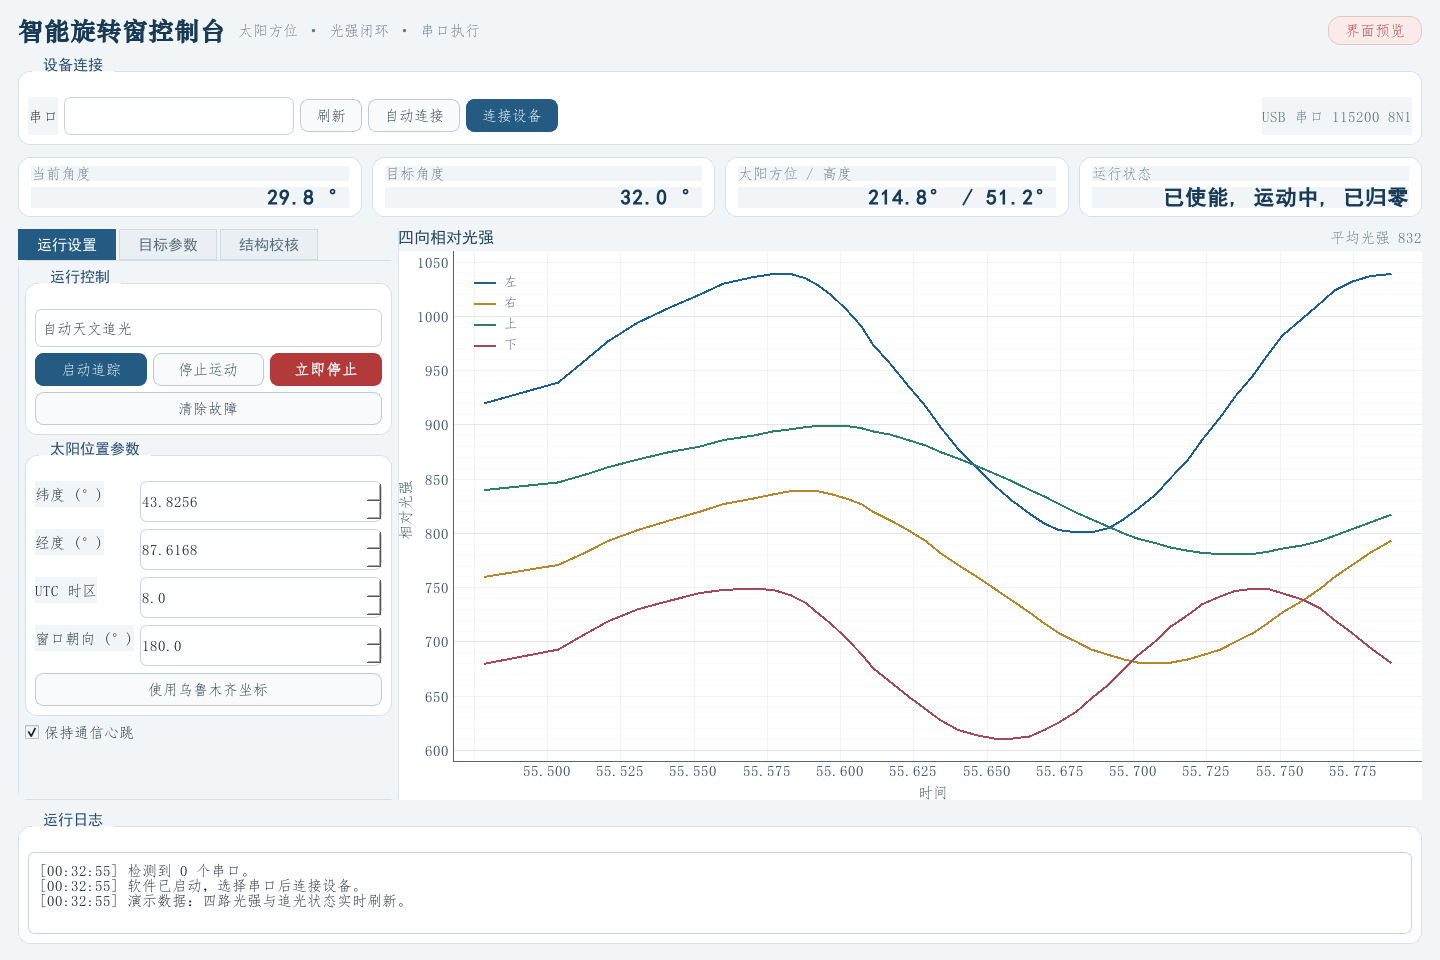
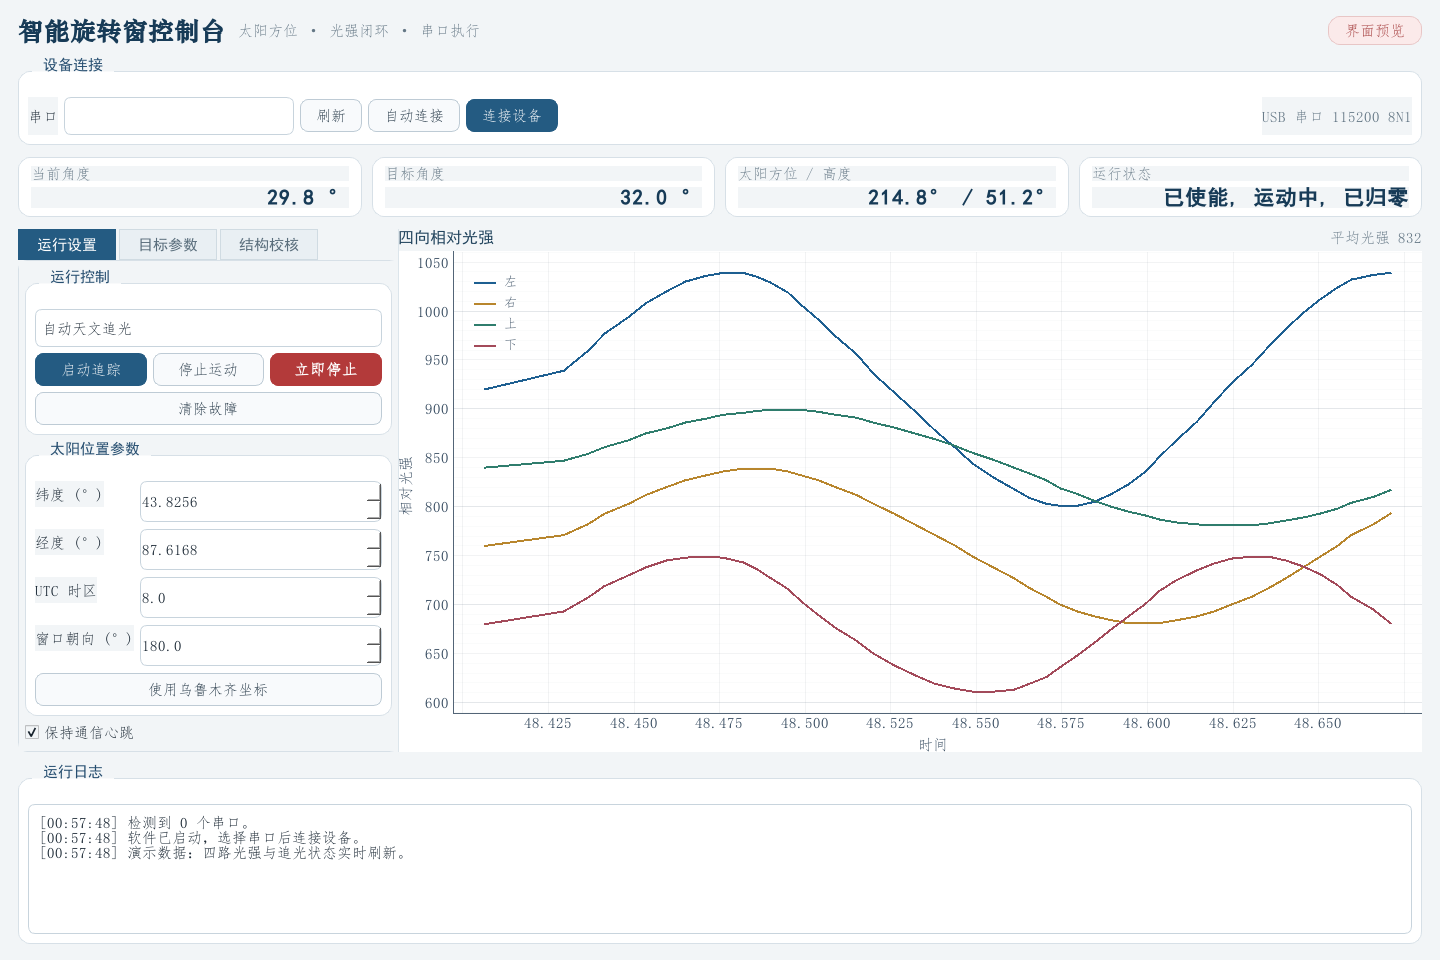
feat: add square frame visualization and workbook (#11)

diff --git a/tools/export_purchase_xlsx.py b/tools/export_purchase_xlsx.py
@@ -50,8 +50,8 @@ CORE_ITEMS = [
 MECH_ITEMS = [
     ("机械", "5mm内径轴承", "双轴承支承转轴", 2, "个", 6, 12, "必买", "建议带防尘盖"),
     ("机械", "304不锈钢M3/M4螺丝套装", "含螺母、垫片", 1, "套", 15, 30, "必买", "户外防锈"),
-    ("机械", "2020/1515铝型材及角件", "外框外边320mm，按完整长宽下料", 1, "套", 50, 90, "必买", "矩形另一边尺寸待补"),
-    ("机械", "激光切割亚克力窗扇", "3～5mm，按完整长宽", 1, "片", 30, 60, "必买", "需补另一条边长"),
+    ("机械", "2020/1515铝型材及角件", "外框4×320mm、内框4×247mm", 1, "套", 60, 130, "必买", "正方形对称接角下料"),
+    ("机械", "激光切割亚克力窗扇", "3～5mm，建议247×247mm", 1, "片", 30, 60, "必买", "按实际装配槽复核"),
     ("材料", "辐射制冷膜样品", "先买小样验证附着与耐候", 1, "片", 20, 50, "必买", "不要直接购买大卷"),
     ("防护", "IP65防水接线盒", "建议200×120×75mm以上", 1, "个", 25, 50, "推荐", "容纳ESP32和驱动"),
     ("防护", "防水电缆接头", "M12/M16", 6, "个", 2, 4, "推荐", "电源、电机和传感器"),
@@ -75,7 +75,7 @@ OUTDOOR_ITEMS = [
 ]
 
 CHECK_ITEMS = (
-    "确认矩形窗另一条边尺寸和板材厚度",
+    "确认正方形框架四边、板材厚度和接角方式",
     "测量完整质量与质心偏离转轴距离",
     "确认减速器输出轴径和联轴器孔径",
     "确认减速器自锁能力和额定输出力矩",
@@ -270,12 +270,12 @@ def add_summary(
         fill=TITLE_FILL,
         alignment=Alignment(horizontal="center"),
     )
-    sheet["A3"] = "适用地区：乌鲁木齐　|　原型质量：2～3 kg　|　版本：v1.3.0"
+    sheet["A3"] = "适用地区：乌鲁木齐　|　正方形外框320 mm　|　质量2～3 kg　|　版本：v1.3.1"
 
     project_rows = [
-        ("内框内边", 90.5, "mm", "待补完整矩形另一边尺寸"),
-        ("内框外边", 247.0, "mm", "关键结构尺寸"),
-        ("外框外边", 320.0, "mm", "关键结构尺寸"),
+        ("内框内边", 90.5, "mm", "正方形内开口边长"),
+        ("内框外边", 247.0, "mm", "正方形内框外边长"),
+        ("外框外边", 320.0, "mm", "正方形整体外框边长"),
         ("移动部件质量", 2.5, "kg", "设计区间2～3 kg"),
         ("默认质心偏心", 10.0, "mm", "必须通过实测确认"),
         ("推荐减速比", 5.0, ":1", "优先自锁蜗轮/行星减速"),
@@ -351,7 +351,7 @@ def add_summary(
     sheet.merge_cells("A17:H18")
     sheet["A17"] = (
         "说明：表中价格为参考零售价，未含运费。风速、雨雪和温度设备购买前需扩展固件采集"
-        "与安全逻辑。矩形窗另一条边尺寸、实测质心与减速器输出轴径确定后，方可最终下料。"
+        "与安全逻辑。窗框为正方形；实测质心与减速器输出轴径确定后，方可最终下料。"
     )
     sheet["A17"].alignment = Alignment(wrap_text=True, vertical="center")
     sheet["A17"].fill = PatternFill("solid", fgColor="FFF7E6")
@@ -360,6 +360,80 @@ def add_summary(
 
     for column, width in enumerate((16, 13, 12, 24, 3, 28, 16, 16), start=1):
         sheet.column_dimensions[get_column_letter(column)].width = width
+    sheet.page_setup.orientation = "landscape"
+    sheet.page_setup.fitToWidth = 1
+    sheet.sheet_properties.pageSetUpPr.fitToPage = True
+
+
+def add_square_geometry_sheet(workbook: Workbook) -> None:
+    sheet = workbook.create_sheet("正方形加工")
+    sheet.merge_cells("A1:E1")
+    set_cell(
+        sheet["A1"],
+        font_name="宋体",
+        size=18,
+        bold=True,
+        color="173B57",
+        fill=TITLE_FILL,
+        alignment=Alignment(horizontal="center", vertical="center"),
+    )
+    sheet["A1"] = "正方形窗框加工尺寸"
+
+    headers = ("项目", "计算式/名义值", "数值", "单位", "说明")
+    for column, header in enumerate(headers, start=1):
+        cell = sheet.cell(row=3, column=column, value=header)
+        set_cell(
+            cell,
+            font_name="黑体",
+            bold=True,
+            color="FFFFFF",
+            fill=HEADER_FILL,
+            alignment=Alignment(horizontal="center", vertical="center"),
+        )
+
+    rows = [
+        ("内框开口边长", "输入", 90.5, "mm", "正方形内开口"),
+        ("内框外边边长", "输入", 247.0, "mm", "正方形内框外轮廓"),
+        ("外框外边边长", "输入", 320.0, "mm", "正方形整体外轮廓"),
+        ("内框单侧框宽", "=(247.0-90.5)/2", "=(C5-C4)/2", "mm", "内框外边至开口的单侧距离"),
+        ("外框单侧框宽", "=(320.0-247.0)/2", "=(C6-C5)/2", "mm", "外框外边至内框外边的单侧距离"),
+        ("开口对角线", "90.5×√2", "=C4*SQRT(2)", "mm", "开口最大对角线"),
+        ("内框对角线", "247×√2", "=C5*SQRT(2)", "mm", "内框外边最大对角线"),
+        ("外框对角线", "320×√2", "=C6*SQRT(2)", "mm", "外框最大对角线"),
+        ("外框名义下料", "4段，名义边长320", 320.0, "mm", "最终按型材接角方式扣除接缝"),
+        ("内框名义下料", "4段，名义边长247", 247.0, "mm", "最终按型材接角方式扣除接缝"),
+        ("窗扇面板参考", "247×247", 247.0, "mm", "若面板装在开口内则按90.5×90.5"),
+    ]
+    for index, values in enumerate(rows, start=4):
+        for column, value in enumerate(values, start=1):
+            cell = sheet.cell(row=index, column=column, value=value)
+            set_cell(
+                cell,
+                fill=ALT_FILL if index % 2 == 0 else None,
+                alignment=Alignment(
+                    horizontal="center" if column in (3, 4) else "left",
+                    vertical="center",
+                    wrap_text=True,
+                ),
+            )
+            if isinstance(value, (int, float)) and column == 3:
+                cell.number_format = "0.00"
+        sheet.row_dimensions[index].height = 34
+
+    sheet.merge_cells("A16:E18")
+    sheet["A16"] = (
+        "结构提示：正方形外框名义边长为320 mm，内外框必须四边对称。轴承、转轴和"
+        "电机支架应围绕正方形中心布置，使2～3 kg窗扇质心尽量接近转轴中心。"
+    )
+    sheet["A16"].alignment = Alignment(wrap_text=True, vertical="center")
+    sheet["A16"].fill = PatternFill("solid", fgColor="FFF7E6")
+    sheet["A16"].font = Font(name="仿宋", size=10.5, color="7A4E00")
+    sheet["A16"].border = BORDER
+
+    for column, width in enumerate((24, 34, 14, 10, 48), start=1):
+        sheet.column_dimensions[get_column_letter(column)].width = width
+    sheet.freeze_panes = "A4"
+    sheet.sheet_view.showGridLines = False
     sheet.page_setup.orientation = "landscape"
     sheet.page_setup.fitToWidth = 1
     sheet.sheet_properties.pageSetUpPr.fitToPage = True
@@ -444,6 +518,7 @@ def build_workbook(output: Path) -> None:
         OUTDOOR_ITEMS,
     )
     add_summary(workbook, ranges)
+    add_square_geometry_sheet(workbook)
     add_check_sheet(workbook)
     workbook.properties.title = "智能环境自适应旋转窗控制系统硬件采购清单"
     workbook.properties.subject = "乌鲁木齐条件，320 mm外框，2～3 kg原型"
@@ -453,7 +528,14 @@ def build_workbook(output: Path) -> None:
     workbook.save(output)
 
     reopened = load_workbook(output, read_only=True, data_only=False)
-    expected = {"封面与汇总", "核心采购", "机械加工", "户外增强", "采购核对"}
+    expected = {
+        "封面与汇总",
+        "核心采购",
+        "机械加工",
+        "户外增强",
+        "正方形加工",
+        "采购核对",
+    }
     if set(reopened.sheetnames) != expected:
         raise RuntimeError("generated workbook sheets do not match")
     reopened.close()

diff --git a/pc_app/src/smart_window/ui.py b/pc_app/src/smart_window/ui.py
@@ -9,8 +9,8 @@ from pathlib import Path
 from typing import Deque
 
 import pyqtgraph as pg
-from PySide6.QtCore import QElapsedTimer, Qt, QTimer
-from PySide6.QtGui import QCloseEvent, QFont, QFontDatabase
+from PySide6.QtCore import QElapsedTimer, QRectF, QSize, Qt, QTimer
+from PySide6.QtGui import QCloseEvent, QColor, QFont, QFontDatabase, QPainter, QPen
 from PySide6.QtWidgets import (
     QApplication,
     QCheckBox,
@@ -26,6 +26,8 @@ from PySide6.QtWidgets import (
     QMessageBox,
     QPlainTextEdit,
     QPushButton,
+    QScrollArea,
+    QSizePolicy,
     QSplitter,
     QTabWidget,
     QVBoxLayout,
@@ -71,6 +73,82 @@ class MetricCard(QFrame):
 
     def set_value(self, value: str) -> None:
         self.value_label.setText(value)
+
+
+class SquareFramePreview(QWidget):
+    """Draw the nested square frame using the current design dimensions."""
+
+    def __init__(self) -> None:
+        super().__init__()
+        self._opening_mm = 90.5
+        self._inner_frame_mm = 247.0
+        self._outer_frame_mm = 320.0
+        self.setMinimumHeight(145)
+        self.setSizePolicy(QSizePolicy.Policy.Expanding, QSizePolicy.Policy.Fixed)
+
+    def sizeHint(self) -> QSize:
+        return QSize(340, 170)
+
+    def set_dimensions(
+        self,
+        opening_mm: float,
+        inner_frame_mm: float,
+        outer_frame_mm: float,
+    ) -> None:
+        self._opening_mm = max(1.0, opening_mm)
+        self._inner_frame_mm = max(self._opening_mm, inner_frame_mm)
+        self._outer_frame_mm = max(self._inner_frame_mm, outer_frame_mm)
+        self.update()
+
+    def _centered_square(self, side: float, center_x: float, center_y: float) -> QRectF:
+        half = side / 2.0
+        return QRectF(center_x - half, center_y - half, side, side)
+
+    def paintEvent(self, event) -> None:
+        del event
+        painter = QPainter(self)
+        painter.setRenderHint(QPainter.RenderHint.Antialiasing)
+        painter.fillRect(self.rect(), QColor("#FFFFFF"))
+
+        margin = 28.0
+        available = min(self.width() - 2.0 * margin, self.height() - 2.0 * margin)
+        scale = available / self._outer_frame_mm
+        center_x = self.width() / 2.0
+        center_y = self.height() / 2.0
+
+        outer = self._centered_square(self._outer_frame_mm * scale, center_x, center_y)
+        inner = self._centered_square(self._inner_frame_mm * scale, center_x, center_y)
+        opening = self._centered_square(self._opening_mm * scale, center_x, center_y)
+
+        painter.setPen(QPen(QColor("#244C68"), 2.0))
+        painter.setBrush(QColor("#E7EEF3"))
+        painter.drawRect(outer)
+
+        painter.setPen(QPen(QColor("#7895A9"), 1.5))
+        painter.setBrush(QColor("#D8E4EC"))
+        painter.drawRect(inner)
+
+        painter.setPen(QPen(QColor("#9CB5C5"), 1.5))
+        painter.setBrush(QColor("#F5FAFD"))
+        painter.drawRect(opening)
+
+        painter.setPen(QColor("#173B57"))
+        painter.setFont(QFont("SimHei", 8, QFont.Weight.DemiBold))
+        painter.drawText(
+            QRectF(center_x - 80, outer.top() - 23, 160, 20),
+            Qt.AlignmentFlag.AlignCenter,
+            f"外框 {self._outer_frame_mm:.1f} mm",
+        )
+        painter.drawText(
+            QRectF(outer.left() + 6, outer.top() + 5, 116, 18),
+            Qt.AlignmentFlag.AlignLeft | Qt.AlignmentFlag.AlignVCenter,
+            f"内框 {self._inner_frame_mm:.1f}",
+        )
+        painter.drawText(
+            opening.adjusted(2, 2, -2, -2),
+            Qt.AlignmentFlag.AlignCenter,
+            f"{self._opening_mm:.1f}",
+        )
 
 
 class MainWindow(QMainWindow):
@@ -258,9 +336,16 @@ class MainWindow(QMainWindow):
         tabs.addTab(run_tab, "运行设置")
         tabs.addTab(parameter_tab, "目标参数")
 
-        structure_tab = QWidget()
-        structure_layout = QVBoxLayout(structure_tab)
+        structure_content = QWidget()
+        structure_layout = QVBoxLayout(structure_content)
         structure_layout.setContentsMargins(6, 8, 6, 8)
+        structure_scroll = QScrollArea()
+        structure_scroll.setWidgetResizable(True)
+        structure_scroll.setFrameShape(QFrame.Shape.NoFrame)
+        structure_scroll.setWidget(structure_content)
+
+        self.frame_preview = SquareFramePreview()
+        structure_layout.addWidget(self.frame_preview)
 
         dimensions_group = QGroupBox("模型关键尺寸（mm）")
         dimensions_form = QFormLayout(dimensions_group)
@@ -313,7 +398,7 @@ class MainWindow(QMainWindow):
         climate_layout.addWidget(climate)
         structure_layout.addWidget(climate_group)
         structure_layout.addStretch(1)
-        tabs.addTab(structure_tab, "结构校核")
+        tabs.addTab(structure_scroll, "结构校核")
 
         layout.addWidget(tabs, 1)
         return panel
@@ -400,6 +485,7 @@ class MainWindow(QMainWindow):
         index = self.mode_combo.findData(int(self.config.mode))
         if index >= 0:
             self.mode_combo.setCurrentIndex(index)
+        self._update_frame_preview()
         self._update_structure_estimate()
 
     def _connect_signals(self) -> None:
@@ -414,12 +500,21 @@ class MainWindow(QMainWindow):
         self.mode_combo.currentIndexChanged.connect(self._mode_changed)
         self.urumqi_button.clicked.connect(self._apply_urumqi_preset)
         for spin in (
+            self.inner_opening_spin,
+            self.inner_frame_spin,
+            self.outer_frame_spin,
             self.mass_spin,
             self.center_offset_spin,
             self.gear_ratio_spin,
             self.motor_torque_spin,
         ):
             spin.valueChanged.connect(self._update_structure_estimate)
+        for spin in (
+            self.inner_opening_spin,
+            self.inner_frame_spin,
+            self.outer_frame_spin,
+        ):
+            spin.valueChanged.connect(self._update_frame_preview)
 
     def _create_timers(self) -> None:
         self.poll_timer = QTimer(self)
@@ -562,6 +657,13 @@ class MainWindow(QMainWindow):
             f"直驱余量 {result.direct_drive_margin:.2f}×"
         )
         self.structure_advice_label.setText(result.recommendation)
+
+    def _update_frame_preview(self) -> None:
+        self.frame_preview.set_dimensions(
+            self.inner_opening_spin.value(),
+            self.inner_frame_spin.value(),
+            self.outer_frame_spin.value(),
+        )
 
     def send_heartbeat(self) -> None:
         if self.serial_link.connected and self.auto_heartbeat_check.isChecked():

diff --git a/pc_app/src/smart_window/__init__.py b/pc_app/src/smart_window/__init__.py
@@ -1,3 +1,3 @@
 """Desktop application for the smart rotating-window prototype."""
 
-__version__ = "0.3.0"
+__version__ = "0.3.1"

diff --git a/docs/PURCHASE_LIST_URUMQI.md b/docs/PURCHASE_LIST_URUMQI.md
@@ -9,8 +9,22 @@
 - 外框外边：`320 mm`
 - 整体质量：`2～3 kg`
 
-由于矩形窗另一条边的尺寸和质心位置尚未给出，本清单将上述尺寸作为关键
-边长参数。正式加工前必须补充完整长宽、厚度、轴心位置和质心测量值。
+窗框为正方形，三层尺寸分别为：
+
+```text
+外框外边：320 mm × 320 mm
+内框外边：247 mm × 247 mm
+内框开口：90.5 mm × 90.5 mm
+```
+
+由此得到：
+
+```text
+外框单侧框宽 = (320 - 247) / 2 = 36.5 mm
+内框单侧框宽 = (247 - 90.5) / 2 = 78.25 mm
+```
+
+正式加工前仍需补充型材截面、接角方式、轴心位置、板材厚度和实测质心。
 
 软件默认位置已设为乌鲁木齐：
 
@@ -76,8 +90,8 @@ UTC 时区：+8
 | 18 | 24AWG 硅胶多芯线 | 1 套 | 15～28 元 | 耐低温、柔软、耐弯折 |
 | 19 | 5 mm 内径轴承 | 2 | 6～12 元/个 | 双轴承支承转轴 |
 | 20 | 304 不锈钢 M3/M4 螺丝套装 | 1 套 | 15～30 元 | 防锈、含螺母和垫片 |
-| 21 | 2020/1515 铝型材 | 4 支 | 50～90 元/套 | 320 mm 外框，按完整尺寸切割 |
-| 22 | 激光切割亚克力板 | 1 片 | 30～60 元 | 3～5 mm，窗扇试件 |
+| 21 | 2020/1515 铝型材 | 8 支 | 50～130 元/套 | 外框4×320 mm、内框4×247 mm，最终按接角扣除 |
+| 22 | 激光切割亚克力板 | 1 片 | 30～60 元 | 3～5 mm，建议247×247 mm窗扇试件 |
 | 23 | 辐射制冷膜样品 | 1 片 | 20～50 元 | 不要一次购买大卷 |
 | 24 | IP65 防水接线盒 | 1 | 25～50 元 | 建议 200×120×75 mm 以上 |
 | 25 | 防水电缆接头 | 6～8 个 | 2～4 元/个 | I²C、电机、电源和传感器 |
@@ -140,5 +154,5 @@ UTC 时区：+8
 4. 确认所有限位和急停采用常闭 NC 触点。
 5. 确认 24V 电源为 3A 或以上，TMC2209 电流限制按电机铭牌设置。
 6. 确认 AS5600 套装包含与芯片垂直安装的径向磁铁。
-7. 确认铝型材和亚克力按完整长宽下料，而不仅是已提供的边长。
+7. 确认铝型材按正方形四边等长、对称接角下料，亚克力面板位置按装配槽复核。
 8. 先使用热灯和温度传感器完成贴膜/不贴膜对照实验，再进行户外测试。

diff --git a/README.md b/README.md
@@ -11,8 +11,8 @@
 |---|---|
 | 软件名称 | 智能环境自适应旋转窗控制系统 |
 | 软著版本 | V1.0 |
-| PC 原型版本 | 0.3.0 |
-| 当前发行版 | [v1.3.0](https://github.com/LJYI2120/smart-adaptive-rotating-window/releases/tag/v1.3.0) |
+| PC 原型版本 | 0.3.1 |
+| 当前发行版 | [v1.3.1](https://github.com/LJYI2120/smart-adaptive-rotating-window/releases/tag/v1.3.1) |
 | 实现语言 | Python 3、C++17、C99 |
 | 运行平台 | Windows PC + ESP32 |
 
@@ -26,6 +26,13 @@
 ![PC control application](docs/images/pc_app.png)
 
 ## 版本更新
+
+### v1.3.1
+
+- 确认正方形窗框，并按 320 / 247 / 90.5 mm 绘制三层尺寸示意。
+- 结构校核页改为可滚动布局，避免小窗口控件重叠。
+- Excel 增加“正方形加工”页，计算框宽、对角线和名义下料尺寸。
+- [下载 Windows 程序 v1.3.1](https://github.com/LJYI2120/smart-adaptive-rotating-window/releases/download/v1.3.1/SmartWindowController-v1.3.1-windows-x64.zip)。
 
 ### v1.3.0
 
